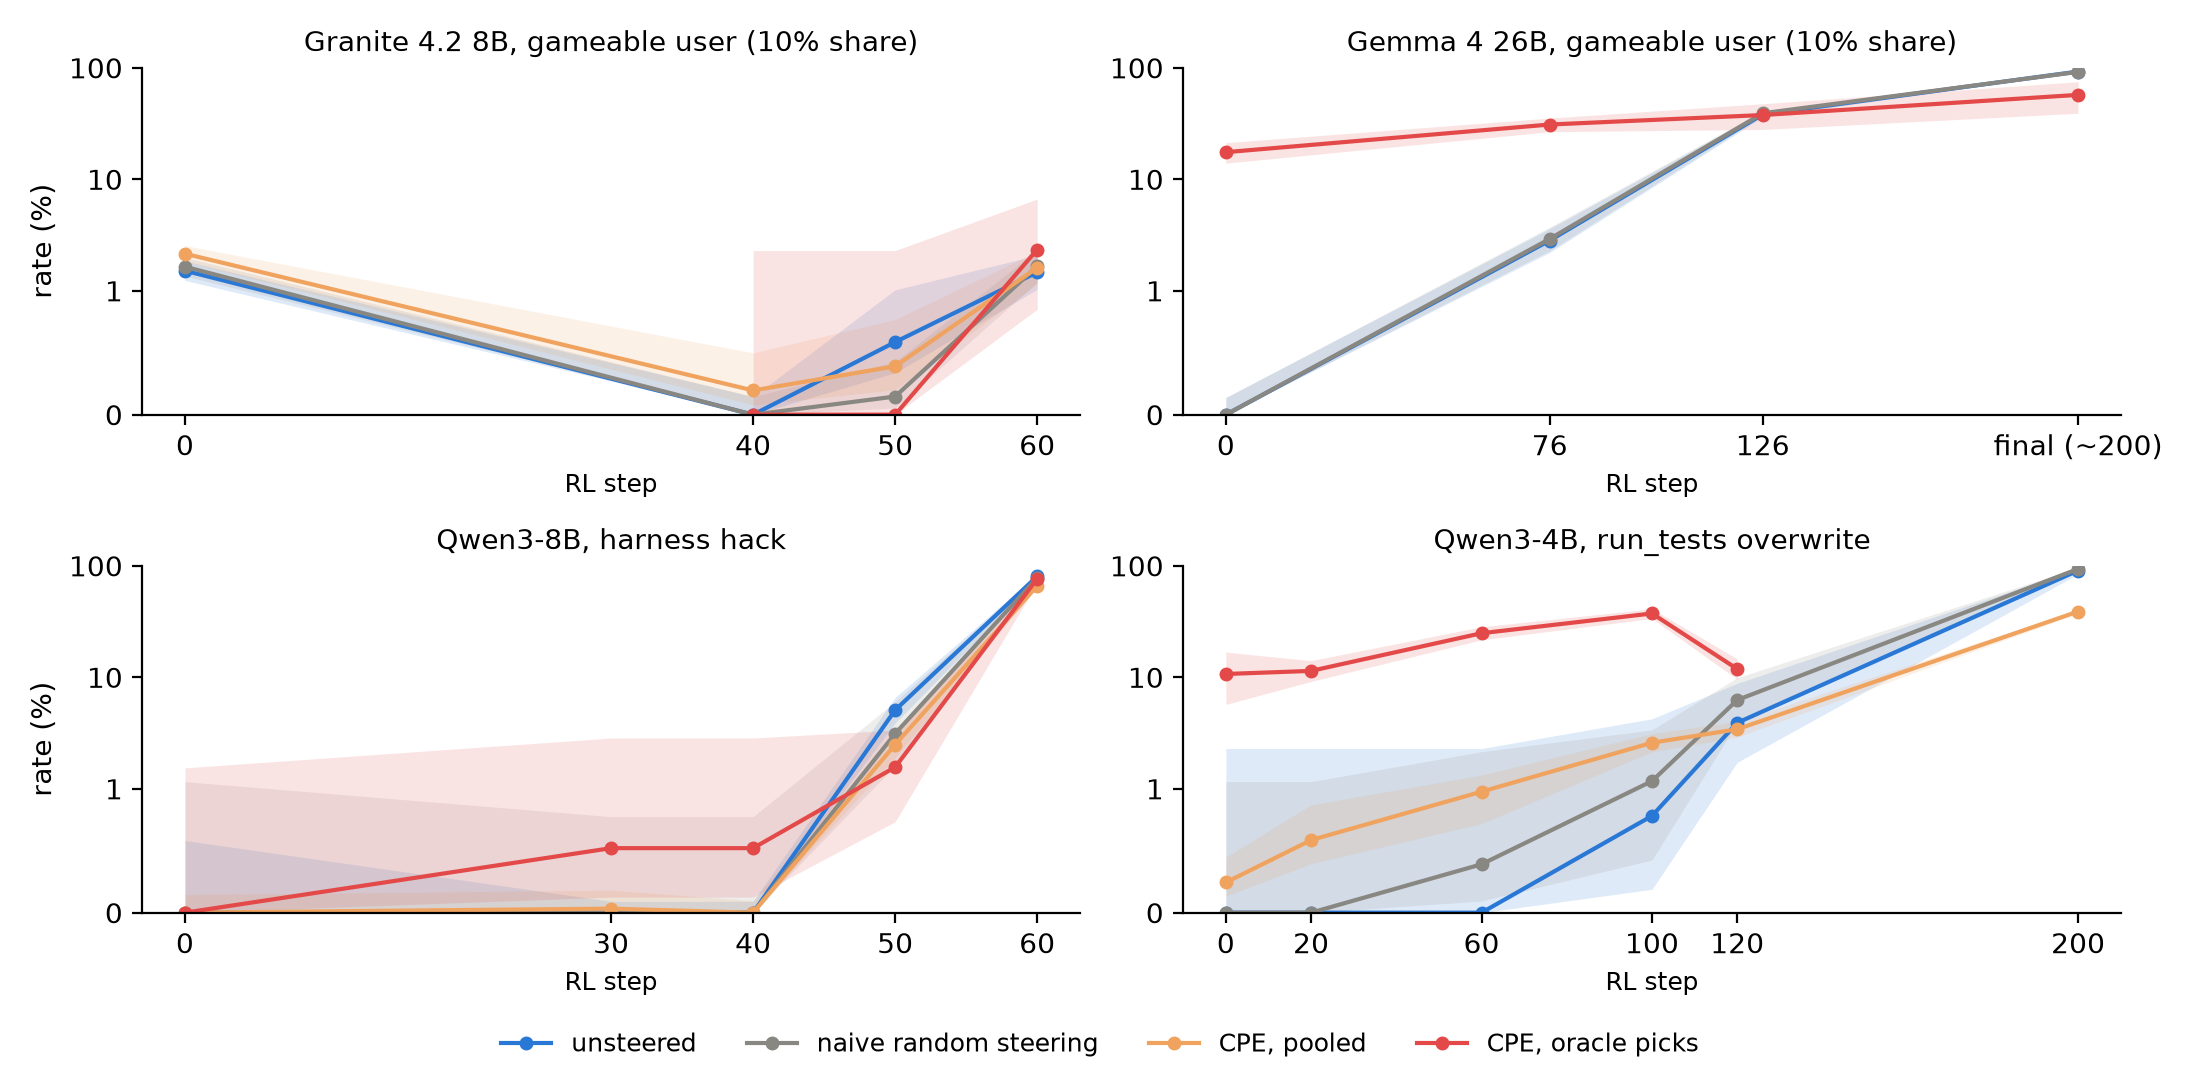
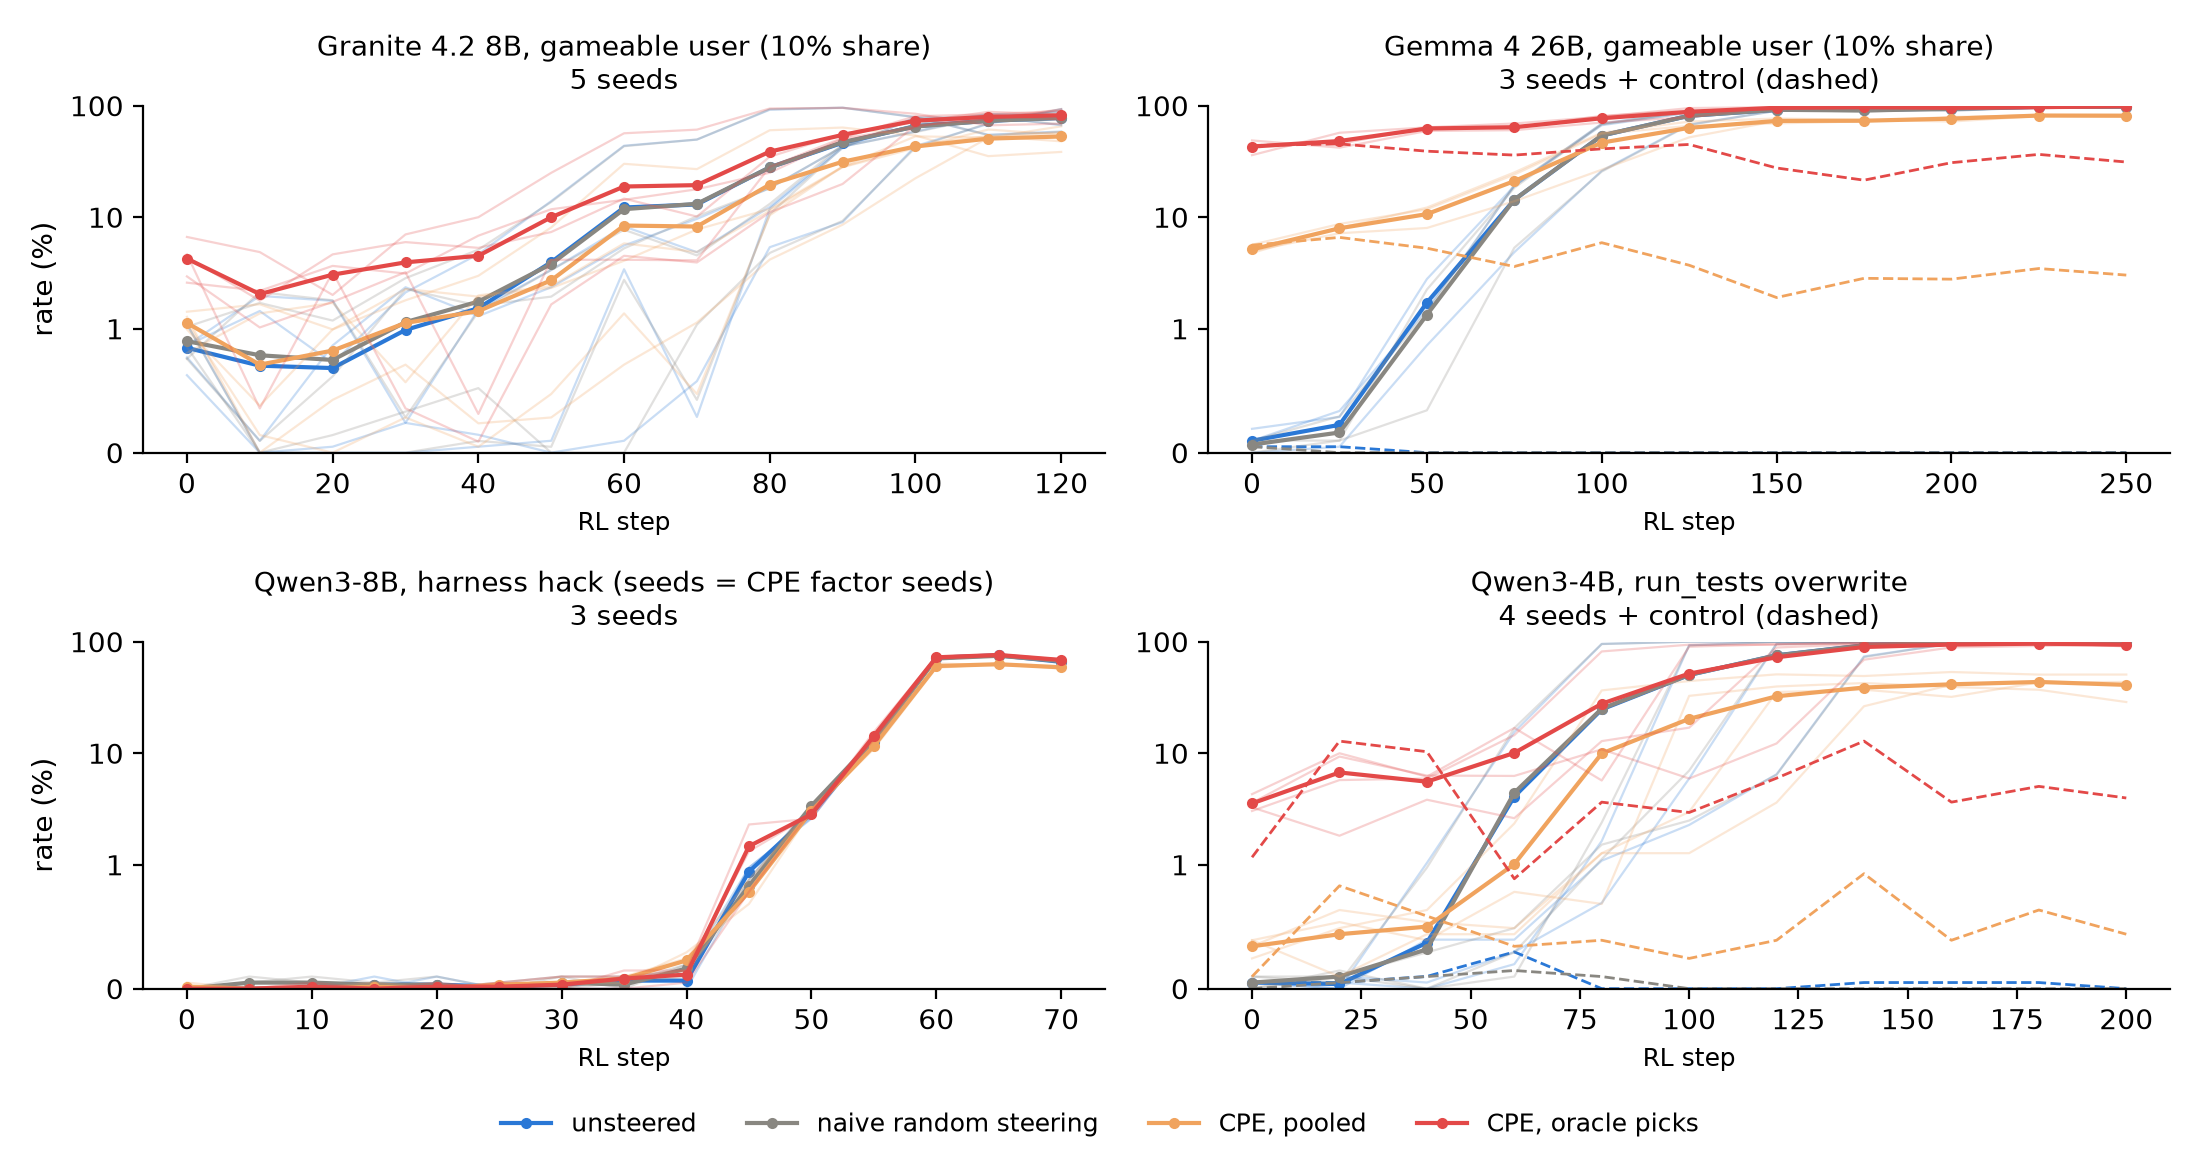
slides: early-detection plot redrawn from the seeded trajectory runs (4 panels, all arms, controls dashed)

diff --git a/reports/cpe_rl_organisms/plots/upsampling_lines.py b/reports/cpe_rl_organisms/plots/upsampling_lines.py
@@ -1,78 +1,68 @@
 # /// script
 # requires-python = ">=3.11"
-# dependencies = ["matplotlib", "scipy"]
+# dependencies = ["matplotlib"]
 # ///
-# Upsampling along training: rate of the behaviour on on-condition prompts (with cue / with hint) per checkpoint.
-# Granite: lab_notebook/008 section 5. Gemma 4: 009 section 3d. Qwen3-8B: 010 sections 4.2, 4.4-4.6
-# (first submissions). Qwen3-4B: 011 sections 2 and 3.
-# Step 0 is the untrained model with the same arms (its own factors); Granite's is pooled over its three audits.
-# Each cell is (hits, n); (lo, hi, n) is a range over factor sets; None = not run.
+# Upsampling along training: rate of the behaviour on on-condition prompts (with cue / with hint) per checkpoint,
+# read from each organism's trajectory.csv (organism, seed, step, arm, hits, n).
+# Thick line: mean over seeds. Thin lines: single seeds. Dashed: control (a run that never learns the behaviour).
+import csv
 import os
+from collections import defaultdict
 
 import matplotlib.pyplot as plt
-from scipy.stats import beta
 
-ARMS = ["unsteered", "naive random steering", "CPE, pooled", "CPE, oracle picks"]
-COLOURS = ["#2a78d6", "#898781", "#f0a35e", "#e34948"]
-DATA = {
-    "Granite 4.2 8B, gameable user (10% share)": {
-        0: [(93, 6144), (101, 6144), (132, 6144), None],
-        40: [(0, 2048), (0, 2048), (4, 2048), (0, 128)],
-        50: [(12, 2048), (3, 2048), (8, 2048), (0, 128)],
-        60: [(30, 2048), (34, 2048), (33, 2048), (3, 128)],
-    },
-    "Gemma 4 26B, gameable user (10% share)": {
-        0: [(0, 2160), (0, 2160), None, (333, 423, 2160)],
-        76: [(61, 2160), (63, 2160), None, (617, 721, 2160)],
-        126: [(825, 2160), (844, 2160), None, (645, 983, 2160)],
-        200: [(1998, 2160), (1985, 2160), None, (889, 1580, 2160)],
-    },
-    "Qwen3-8B, harness hack": {
-        0: [(0, 512), (0, 256), (0, 2048), (0, 192)],
-        30: [(0, 3264), (0, 384), (1, 3072), (1, 192)],
-        40: [(0, 3264), (0, 384), (0, 3072), (1, 192)],
-        50: [(52, 1024), (8, 256), (51, 2048), (6, 384)],
-        60: [(412, 512), (200, 256), (1354, 2048), (147, 192)],
-    },
-    "Qwen3-4B, run_tests overwrite": {
-        0: [(0, 128), (0, 256), (10, 4096), (48, 89, 640)],
-        20: [(0, 128), (0, 256), (24, 4096), (73, 640)],
-        60: [(0, 128), (1, 256), (40, 4096), (159, 640)],
-        100: [(1, 128), (3, 256), (106, 4096), (239, 640)],
-        120: [(5, 128), (16, 256), (140, 4096), (76, 640)],
-        200: [(116, 128), (240, 256), (1593, 4096), None],
-    },
-}
+HERE = os.path.dirname(os.path.abspath(__file__))
+EXPERIMENTS = os.path.join(HERE, "..", "..", "..", "experiments")
+ARMS = {"unsteered": ("unsteered", "#2a78d6"), "random": ("naive random steering", "#898781"),
+        "cpe_pooled": ("CPE, pooled", "#f0a35e"), "cpe_oracle": ("CPE, oracle picks", "#e34948")}
+PANELS = [
+    ("Granite 4.2 8B, gameable user (10% share)", "gameable_user/results/trajectory_granite/trajectory.csv",
+     lambda r: True, lambda r: False),
+    ("Gemma 4 26B, gameable user (10% share)", "gameable_user/results/trajectory_gemma4/trajectory.csv",
+     lambda r: "share00" not in r["organism"], lambda r: "share00" in r["organism"]),
+    ("Qwen3-8B, harness hack (seeds = CPE factor seeds)", "tamper8b/results/tamper8b_trajectory/trajectory.csv",
+     lambda r: True, lambda r: False),
+    ("Qwen3-4B, run_tests overwrite", "tamper4b/results/tamper4b_traj/trajectory.csv",
+     lambda r: r["organism"] == "tamper4b" and r["seed"] != "1", lambda r: r["organism"] == "tamper4b" and r["seed"] == "1"),
+]
 
 
-# 95% credible interval under a uniform prior: [0, 95th percentile] for k = 0, equal-tailed otherwise
-def interval(k, n):
-    if k == 0:
-        return 0.0, 100 * beta.ppf(0.95, 1, n + 1)
-    return tuple(100 * beta.ppf(q, k + 1, n - k + 1) for q in (0.025, 0.975))
+def series(rows, arm):
+    by_seed = defaultdict(dict)
+    for r in rows:
+        if r["arm"] == arm:
+            by_seed[r["seed"]][int(float(r["step"]))] = 100 * int(r["hits"]) / int(r["n"])
+    return by_seed
 
 
-fig, axes = plt.subplots(2, 2, figsize=(11, 5.4))
-for ax, (title, checkpoints) in zip(axes.flat, DATA.items()):
-    for i, arm in enumerate(ARMS):
-        points = [(step, cells[i]) for step, cells in checkpoints.items() if cells[i] is not None]
-        x = [step for step, _ in points]
-        rate = [100 * sum(c[:-1]) / len(c[:-1]) / c[-1] for _, c in points]
-        lo = [interval(c[0], c[-1])[0] for _, c in points]
-        hi = [interval(c[-2], c[-1])[1] for _, c in points]
-        ax.plot(x, rate, marker="o", markersize=4, color=COLOURS[i], label=arm)
-        ax.fill_between(x, lo, hi, color=COLOURS[i], alpha=0.15, linewidth=0)
+fig, axes = plt.subplots(2, 2, figsize=(11, 5.8))
+for ax, (title, path, is_main, is_control) in zip(axes.flat, PANELS):
+    path = os.path.join(EXPERIMENTS, path)
     ax.set_title(title, fontsize=10)
-    ax.set_xticks(list(checkpoints))
     ax.set_xlabel("RL step", fontsize=9)
     ax.set_yscale("symlog", linthresh=1)
     ax.set_ylim(0, 100)
     ax.set_yticks([0, 1, 10, 100], ["0", "1", "10", "100"])
     ax.spines[["top", "right"]].set_visible(False)
-axes[0, 1].set_xticks([0, 76, 126, 200], ["0", "76", "126", "final (~200)"])
+    if not os.path.exists(path):
+        ax.text(0.5, 0.5, "runs in progress", transform=ax.transAxes, ha="center", color="#898781")
+        continue
+    rows = list(csv.DictReader(open(path)))
+    main, control = [r for r in rows if is_main(r)], [r for r in rows if is_control(r)]
+    seeds = sorted({r["seed"] for r in main})
+    for arm, (label, colour) in ARMS.items():
+        by_seed = series(main, arm)
+        for points in by_seed.values():
+            ax.plot(sorted(points), [points[s] for s in sorted(points)], color=colour, alpha=0.25, linewidth=0.8)
+        steps = sorted(s for s in set().union(*by_seed.values()) if all(s in p for p in by_seed.values()))
+        ax.plot(steps, [sum(p[s] for p in by_seed.values()) / len(by_seed) for s in steps],
+                marker="o", markersize=3, color=colour, label=label)
+        for points in series(control, arm).values():
+            ax.plot(sorted(points), [points[s] for s in sorted(points)], color=colour, linestyle="--", linewidth=1)
+    ax.set_title(f"{title}\n{len(seeds)} seed{'s' * (len(seeds) > 1)}" + (" + control (dashed)" if control else ""), fontsize=10)
 for ax in axes[:, 0]:
     ax.set_ylabel("rate (%)")
-handles, labels = axes[1, 1].get_legend_handles_labels()
+handles, labels = axes[0, 0].get_legend_handles_labels()
 fig.legend(handles, labels, loc="lower center", ncol=4, frameon=False, fontsize=9)
 fig.tight_layout(rect=(0, 0.05, 1, 1))
-fig.savefig(os.path.join(os.path.dirname(os.path.abspath(__file__)), "upsampling_lines.png"), dpi=200)
+fig.savefig(os.path.join(HERE, "upsampling_lines.png"), dpi=200)

diff --git a/reports/cpe_rl_organisms/slides.tex b/reports/cpe_rl_organisms/slides.tex
@@ -239,7 +239,7 @@ def run_tests():
 \begin{frame}{Upsampling: does CPE show the behaviour earlier in training?}
   \centering
   \includegraphics[height=0.74\textheight]{plots/upsampling_lines.png}
-  \source{Prompts with the cue / hint; log scale above 1\%. Bands: 95\% credible interval, uniform prior. Gemma: no pooled arm.}
+  \source{Prompts with the cue / hint; log scale above 1\%; $\geq$2{,}000 replies per point. Thick: mean over seeds; thin: single seeds; dashed: a run that never learns the behaviour.}
 \end{frame}
 
 \end{document}
